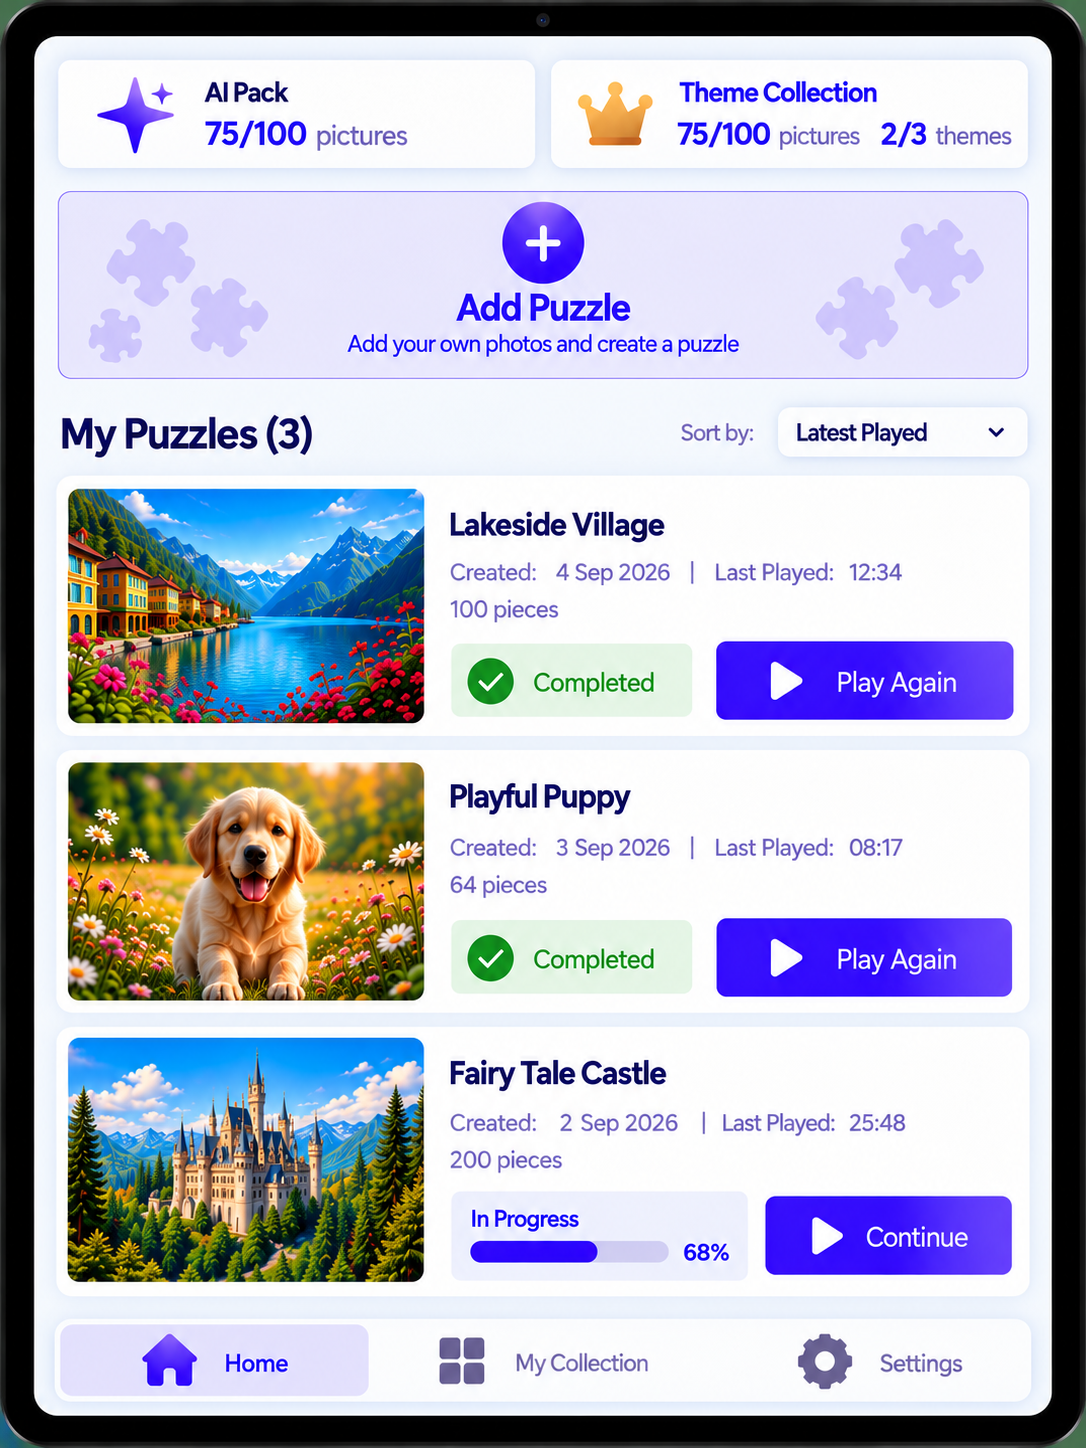
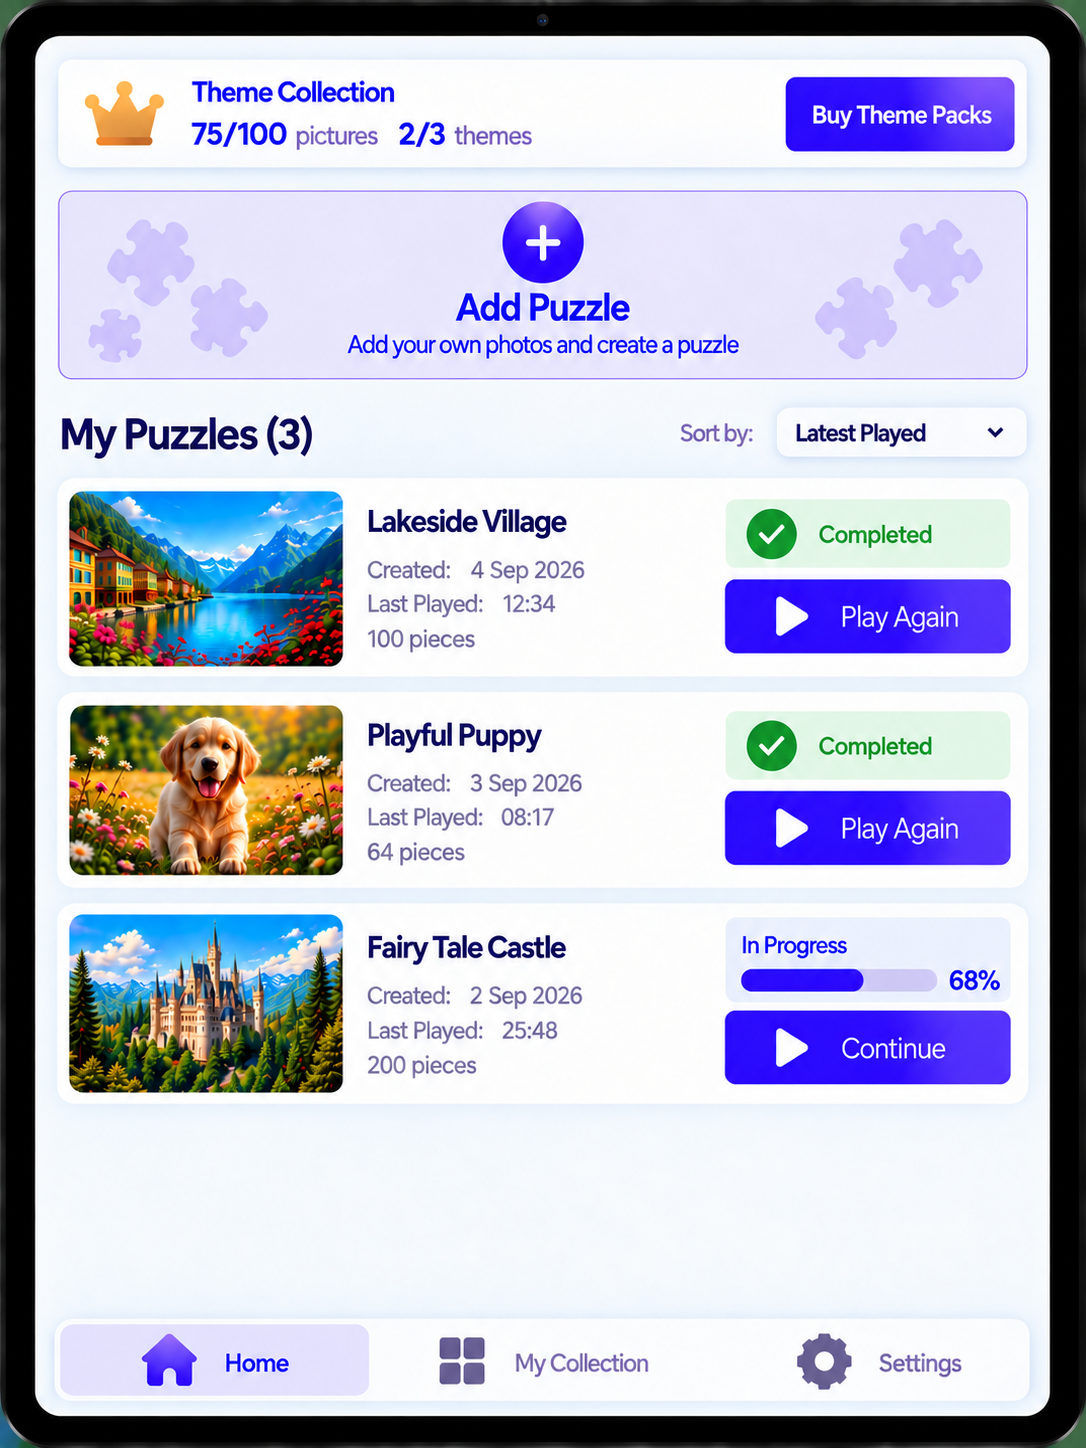
Save updated Home design references and source inventory

diff --git a/design/new-user-empty/README.md b/design/new-user-empty/README.md
@@ -1,0 +1,34 @@
+# New-user Home empty states
+
+Generated 6 October 2026 for three review fixtures:
+
+- `mobile-home-empty.png`
+- `tablet-landscape-home-empty.png`
+- `tablet-portrait-home-empty.png`
+
+## Required state represented
+
+- No user puzzles exist: `My Puzzles (0)`.
+- The deferred AI allowance/header is absent.
+- Theme Collection is the only allowance/status card.
+- Guest state truthfully says `Guest collection · No purchased packs` and shows no sample balance.
+- Add Puzzle remains the primary next action.
+- Home / My Collection / Settings navigation is retained, with Home selected.
+
+## Design-system decisions applied
+
+- Canvas `#F7F7FE`, white surfaces, soft lavender grouping, deep indigo text and violet primary interaction.
+- Platform system sans-serif hierarchy, rounded cards, restrained violet shadows and generous spacing.
+- Empty state preserves screen context and uses a small puzzle illustration, title and one clear next action.
+- Tablet layouts use 24-point-style gutters; mobile uses 16-point-style gutters.
+
+## Intentional differences from supplied populated mockups
+
+- AI Pack and all example balances are removed because AI is deferred from v1 and the guest owns no pack.
+- Sorting is plain `Latest played` context text rather than an interactive dropdown while the list is empty.
+- Puzzle rows and thumbnails are replaced by the first-puzzle empty state.
+- The supplied mobile empty-state image is a composition reference only; these files use the design-system hierarchy and spacing.
+
+## Review limits
+
+These are generated raster composition studies. They do not prove pixel identity, native rendering, text scaling, accessibility semantics, safe-area behaviour, Expo Router native-tab geometry, or physical-device acceptance. Native tab-bar appearance may differ by OS as approved. Browser and native screenshots still need to be captured from the implemented components and compared before M2 visual acceptance.
